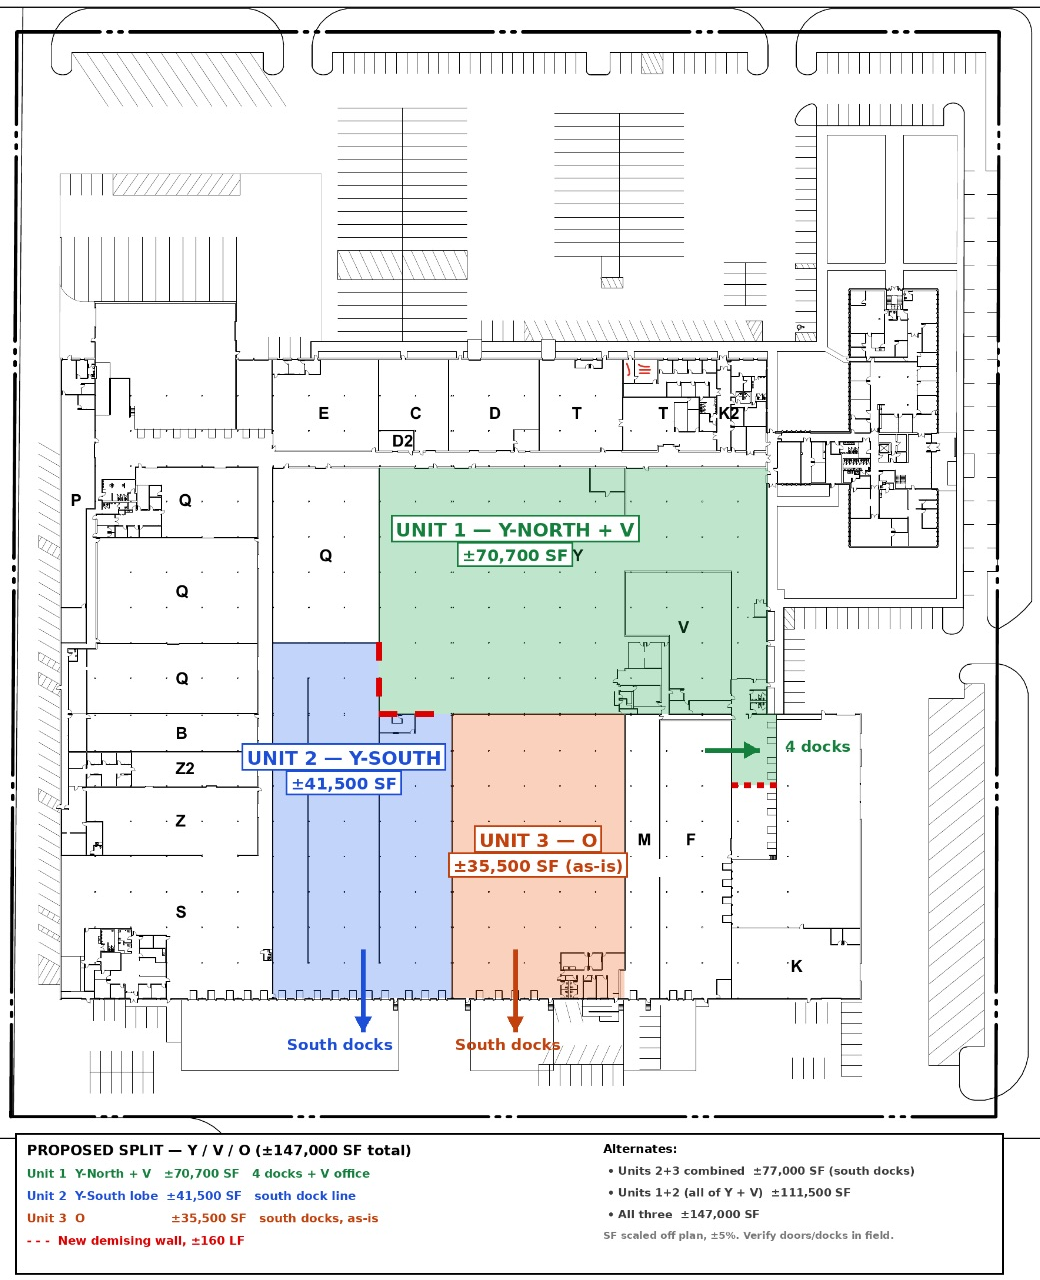
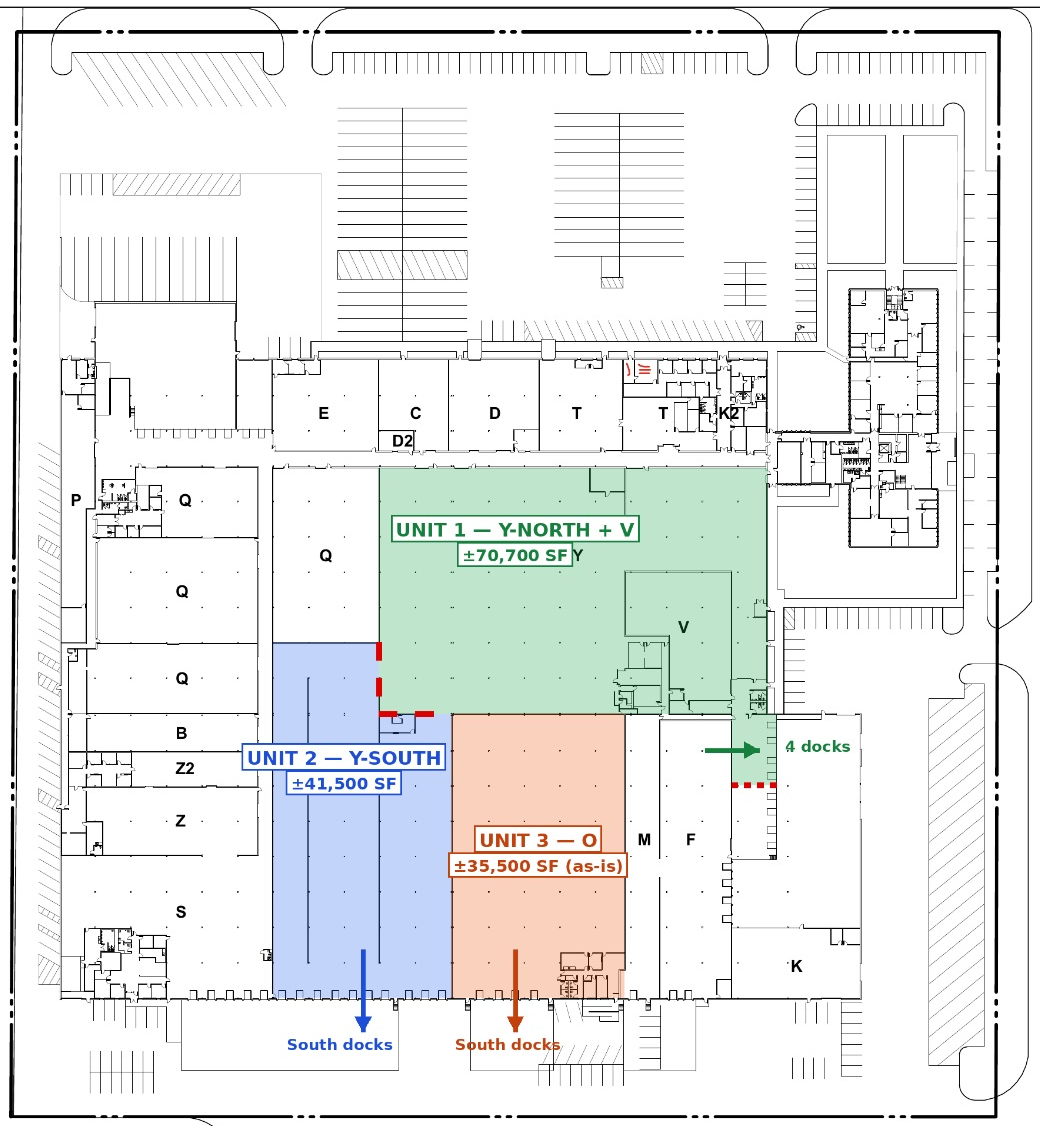
Fix Alyssa Aucoin's name, crop the plan legend, update dashboard tabs
- Strength in Numbers: spell Alyssa's last name Aucoin
- Proposed Layouts: crop the legend off the bottom of the floor plan
- Accountability: checklist now Property Overview, Prospect Activity,
  Competitive Set, Lease Comps, Tenant Information

Claude-Session: https://claude.ai/code/session_013rjN9eXsQUGtogBW2y87jx

diff --git a/index.html b/index.html
@@ -9,7 +9,7 @@
   <link rel="preconnect" href="https://fonts.gstatic.com" crossorigin>
   <link href="https://fonts.googleapis.com/css2?family=Nunito+Sans:ital,opsz,wght@0,6..12,200;0,6..12,300;0,6..12,400;0,6..12,600;0,6..12,700;0,6..12,800;1,6..12,200;1,6..12,300;1,6..12,400&display=swap" rel="stylesheet">
   <!-- Bump ?v= on deck.css and deck.js with each update so browsers fetch the new files -->
-  <link rel="stylesheet" href="deck.css?v=2026-11-02.13">
+  <link rel="stylesheet" href="deck.css?v=2026-11-02.14">
 </head>
 <body>
   <!-- Deck chrome: menu, slide counter, dot nav, progress -->
@@ -134,7 +134,7 @@
                   <li><img src="img/faces/hannah-webster.jpg?v=2" alt="" loading="lazy"><span>Hannah Webster</span></li>
                   <li><img src="img/faces/chad-meyer.jpg?v=2" alt="" loading="lazy"><span>Chad Meyer</span></li>
                   <li><img src="img/faces/kennedy-arundel.jpg?v=2" alt="" loading="lazy"><span>Kennedy Arundel</span></li>
-                  <li><img src="img/faces/alyssa-aucion.jpg?v=2" alt="" loading="lazy"><span>Alyssa Aucion</span></li>
+                  <li><img src="img/faces/alyssa-aucoin.jpg" alt="" loading="lazy"><span>Alyssa Aucoin</span></li>
                   <li><img src="img/faces/liz-megginson.jpg?v=2" alt="" loading="lazy"><span>Liz Megginson</span></li>
                 </ul>
               </div>
@@ -337,10 +337,10 @@
         <!-- Floor plans. To add the next plan, copy this <figure> (the second plan is still to come). -->
         <div class="plans">
           <figure class="plan" id="plan-1">
-            <button class="plan__zoom" data-zoom="img/plan-proposed-split.png" data-caption="Proposed Layout" aria-label="Enlarge the proposed layout floor plan">
-              <img src="img/plan-proposed-split.png" alt="Proposed split of Y, V and O (±147,000 SF): Unit 1 Y-North + V ±70,700 SF with 4 docks, Unit 2 Y-South ±41,500 SF on the south dock line, Unit 3 O ±35,500 SF as-is, with a new ±160 LF demising wall" width="1040" height="1280" loading="lazy">
-              <!-- Unit outlines drawn in the plan image's own pixel coordinates (1040 x 1280) -->
-              <svg class="plan__units" viewBox="0 0 1040 1280" aria-hidden="true">
+            <button class="plan__zoom" data-zoom="img/plan-proposed-split.png?v=2" data-caption="Proposed Layout" aria-label="Enlarge the proposed layout floor plan">
+              <img src="img/plan-proposed-split.png?v=2" alt="Proposed split of Y, V and O: Unit 1 Y-North + V ±70,700 SF with 4 docks, Unit 2 Y-South ±41,500 SF on the south docks, Unit 3 O ±35,500 SF as-is" width="1040" height="1126" loading="lazy">
+              <!-- Unit outlines drawn in the plan image's own pixel coordinates (1040 x 1126) -->
+              <svg class="plan__units" viewBox="0 0 1040 1126" aria-hidden="true">
                 <polygon class="plan__unit plan__unit--1" data-unit="1" points="380,468 766,468 766,714 776,714 776,786 731,786 731,714 380,714"/>
                 <polygon class="plan__unit plan__unit--2" data-unit="2" points="273,643 380,643 380,714 452,714 452,998 273,998"/>
                 <polygon class="plan__unit plan__unit--3" data-unit="3" points="452,714 625,714 625,998 452,998"/>
@@ -366,10 +366,11 @@
             <p class="lede">An internal industrial leasing dashboard that centralizes portfolio activity, tracks real-time leasing and marketing performance, and keeps teams aligned and accountable through clear, data-driven visibility into availabilities, deals, pipeline, and property momentum.</p>
             <!-- Match these to the dashboard's tabs -->
             <ul class="checks">
+              <li>Property Overview</li>
+              <li>Prospect Activity</li>
               <li>Competitive Set</li>
               <li>Lease Comps</li>
-              <li>Deals in the Market</li>
-              <li>Target Tenants</li>
+              <li>Tenant Information</li>
             </ul>
           </div>
           <a class="monitor" data-link="agencyDashboard" href="#" aria-label="Open the Stream Chicago Agency Dashboard">
@@ -494,6 +495,6 @@
   </div>
   <div class="toast" id="toast" role="status" hidden></div>
 
-  <script src="deck.js?v=2026-11-02.13"></script>
+  <script src="deck.js?v=2026-11-02.14"></script>
 </body>
 </html>
